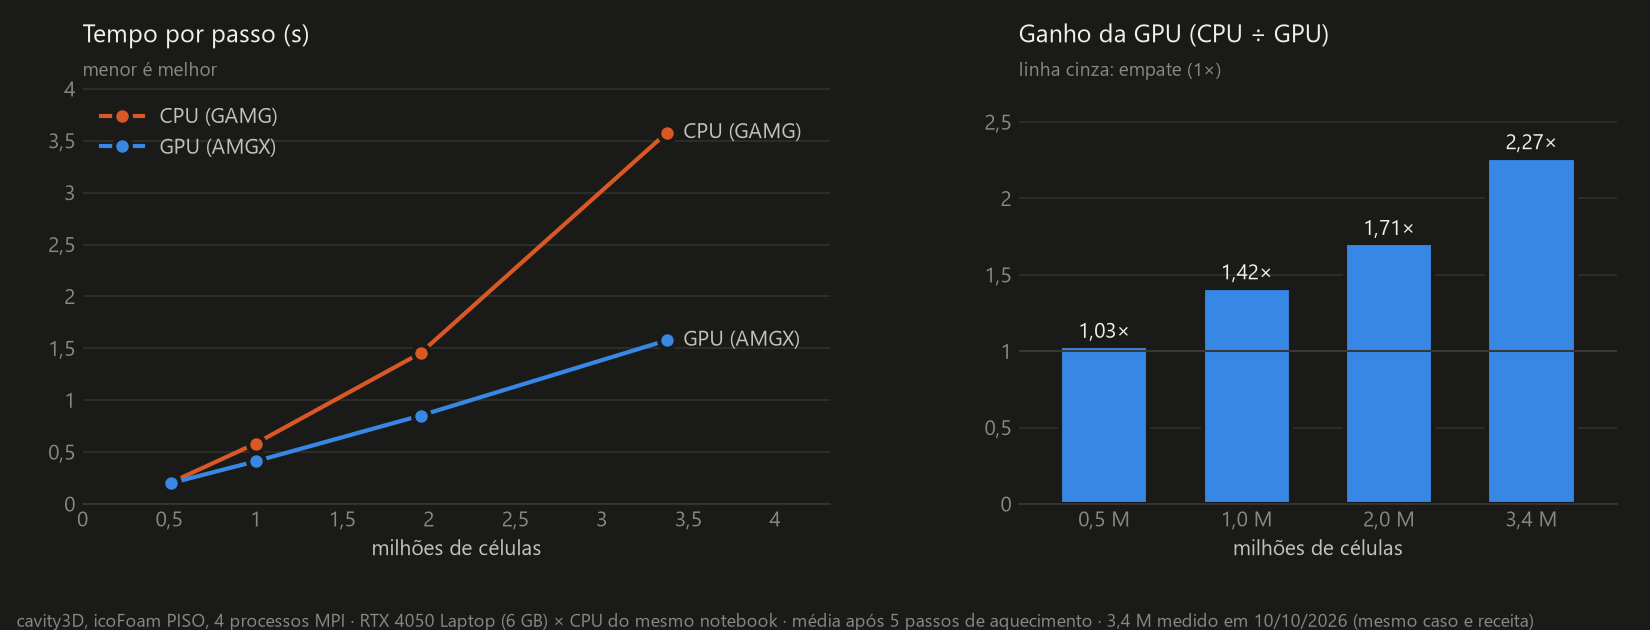
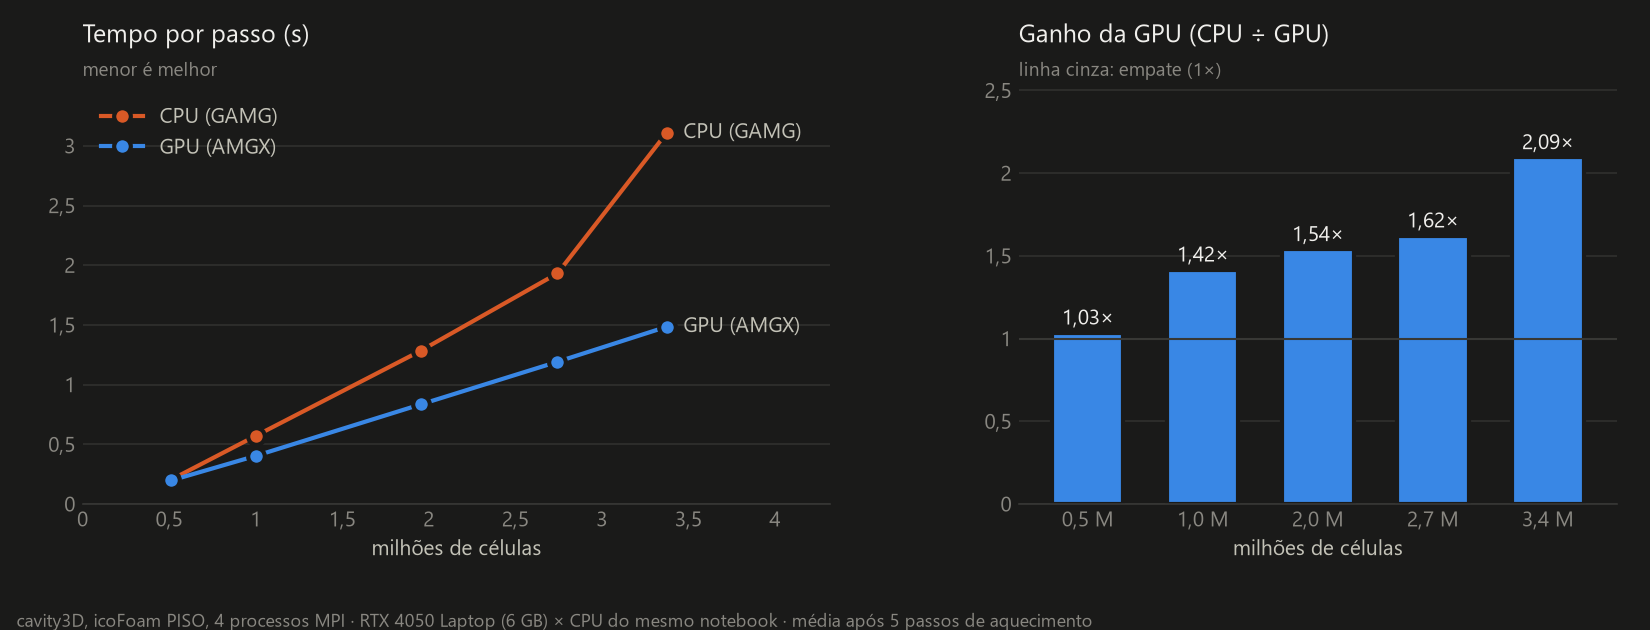
benchmark: clean five-point CPU x GPU scaling curve (0.5 to 3.4 M cells)
All points re-measured on 11/10 with the machine idle (browser and other
apps closed, WSL restarted): 1.03x at 0.5 M, 1.42x at 1 M, 1.54x at 2 M,
1.62x at 2.7 M (new point) and 2.09x at 3.4 M. The earlier 2 M CPU time
was 13% slower because other programs were competing for the cores,
which inflates the apparent GPU gain; the 2.7 M point was repeated and
matched within 0.2%. README, cuda/README.md, tutorials/GPU and the
benchmark page now quote these numbers.

diff --git a/cuda/scripts/plot_scaling.py b/cuda/scripts/plot_scaling.py
@@ -89,7 +89,7 @@ def grafico(pts, tema, out):
 
     fig.text(0.01, 0.005,
              "cavity3D, icoFoam PISO, 4 processos MPI · RTX 4050 Laptop (6 GB) × CPU do mesmo notebook · "
-             "média após 5 passos de aquecimento · 3,4 M medido em 10/10/2026 (mesmo caso e receita)",
+             "média após 5 passos de aquecimento",
              color=t["muted"], fontsize=8.5)
     fig.subplots_adjust(left=0.05, right=0.98, top=0.86, bottom=0.2)
     fig.savefig(out, facecolor=t["surface"])

diff --git a/cuda/benchmarks/cavity3D.md b/cuda/benchmarks/cavity3D.md
@@ -11,16 +11,18 @@ de aquecimento (30 passos na malha de 1 M, 20 na de 3,4 M).
 
 | Malha | CPU (GAMG) | GPU (AMGX) | Ganho | Iterações de p, CPU / GPU |
 |---|---:|---:|---:|---:|
-| 80³ = 0,5 M células | 0,208 s/passo | 0,201 s/passo | 1,03× | 3,9 / 5,3 |
-| 100³ = 1,0 M | 0,583 | 0,411 | **1,42×** | 7,8 / 5,7 |
-| 125³ = 2,0 M | 1,454 | 0,852 | **1,71×** | 8,7 / 5,7 |
-| 150³ = 3,4 M | 3,577 | 1,577 | **2,27×** | 15,6 / 5,6 |
+| 80³ = 0,5 M células | 0,204 s/passo | 0,197 s/passo | 1,03× | 3,9 / 5,3 |
+| 100³ = 1,0 M | 0,570 | 0,403 | **1,42×** | 7,8 / 5,7 |
+| 125³ = 2,0 M | 1,283 | 0,834 | **1,54×** | 8,7 / 5,7 |
+| 140³ = 2,7 M | 1,932 | 1,192 | **1,62×** | 9,8 / 5,5 |
+| 150³ = 3,4 M | 3,110 | 1,485 | **2,09×** | 14,6 / 5,6 |
 
-0,5, 1 e 2 M medidos em 11/10/2026 (25 passos, média após 5 de aquecimento); 3,4 M medido
-em 10/10/2026 com o mesmo caso, a mesma receita e o mesmo critério. Na repetição de 3,4 M
-em 11/10 a CPU deu 3,349 s/passo, mas a GPU não completou: o Linux matou os processos por
-falta de RAM (8 GB no WSL) ao criar a segunda instância da AMGX (`pFinal`). Pela mesma
-razão a malha de 4,9 M não foi medida. Dados em [`cavity3D_scaling.csv`](cavity3D_scaling.csv);
+25 passos por rodada, média depois de 5 de aquecimento, com a máquina livre (navegador e
+outros programas fechados, WSL reiniciado). A 2,7 M repetida deu 1,932 / 1,192 s/passo
+contra 1,928 / 1,194 na primeira rodada. Uma rodada anterior de 2 M com outros programas
+abertos deu 1,454 s/passo na CPU, 13% mais lenta: carga na máquina infla o tempo da CPU e,
+com ele, o ganho aparente. A malha de 4,9 M não foi medida: os 8 GB de RAM do WSL acabam ao
+criar as instâncias da AMGX nos 4 processos. Dados em [`cavity3D_scaling.csv`](cavity3D_scaling.csv);
 gráfico gerado com [`../scripts/plot_scaling.py`](../scripts/plot_scaling.py).
 
 ## CPU × GPU (10/10/2026)

diff --git a/cuda/README.md b/cuda/README.md
@@ -53,7 +53,7 @@ decomposePar && mpirun -np 4 foamRun -parallel     # procure linhas "AMGx:  Solv
 1. **O `tolerance`/`relTol` do `fvSolution` é ignorado.** O critério que vale é o `"tolerance"` do `amgxpOptions` (`RELATIVE_INI`). Iguale ao `relTol` do caso, ou a GPU fará muito mais trabalho que a CPU.
 2. **Não use `caching { update periodic | adaptive | never; }`.** Nesses modos o amgx4foam deixa de atualizar a matriz, e o resultado fica fisicamente errado mesmo convergindo. Para economizar setup use `"structure_reuse_levels": -1`, que já está em `config/amgxpOptions`.
 3. **Malha pequena favorece a CPU.** Use a cavity só para validar o resultado, não para medir velocidade.
-   Na [cavity3D](benchmarks/cavity3D.md) o ganho vai de 1,38× com 1 M células a 2,27× com 3,4 M.
+   Na [cavity3D](benchmarks/cavity3D.md) o ganho vai de 1,03× com 0,5 M células a 2,09× com 3,4 M.
 4. **2 a 4 processos por GPU.** Cada processo abre um contexto CUDA na mesma placa.
 5. **Libere a GPU.** ParaView, jogos e o próprio desktop disputam a memória da placa; falta de memória aparece como `Cuda failure: 'unknown error'` / `Out of resource`.
 6. **Em regime permanente (SIMPLE) a pressão costuma ser só ~10% da iteração.** O ganho aparece em casos transientes em que a pressão domina. Veja `benchmarks/motorBike.md`.

diff --git a/tutorials/GPU/README.md b/tutorials/GPU/README.md
@@ -14,9 +14,10 @@ source ~/dev/OpenFOAM-14/cuda/scripts/env.sh
 | Caso | Solver | Malha | Ganho medido (GPU × CPU, 4 processos) |
 |---|---|---|---|
 | [`cavity3D`](cavity3D/) | `icoFoam`, PISO transiente | 80³ = 0,5 M células | 1,03× (empate) |
-| | | 100³ = 1 M células | 1,42× (0,411 × 0,583 s/passo) |
-| | | 125³ = 2 M células | 1,71× (0,852 × 1,454 s/passo) |
-| | | 150³ = 3,4 M células | 2,27× (1,577 × 3,577 s/passo) |
+| | | 100³ = 1 M células | 1,42× (0,403 × 0,570 s/passo) |
+| | | 125³ = 2 M células | 1,54× (0,834 × 1,283 s/passo) |
+| | | 140³ = 2,7 M células | 1,62× (1,192 × 1,932 s/passo) |
+| | | 150³ = 3,4 M células | 2,09× (1,485 × 3,110 s/passo) |
 
 ```bash
 cd tutorials/GPU/cavity3D
